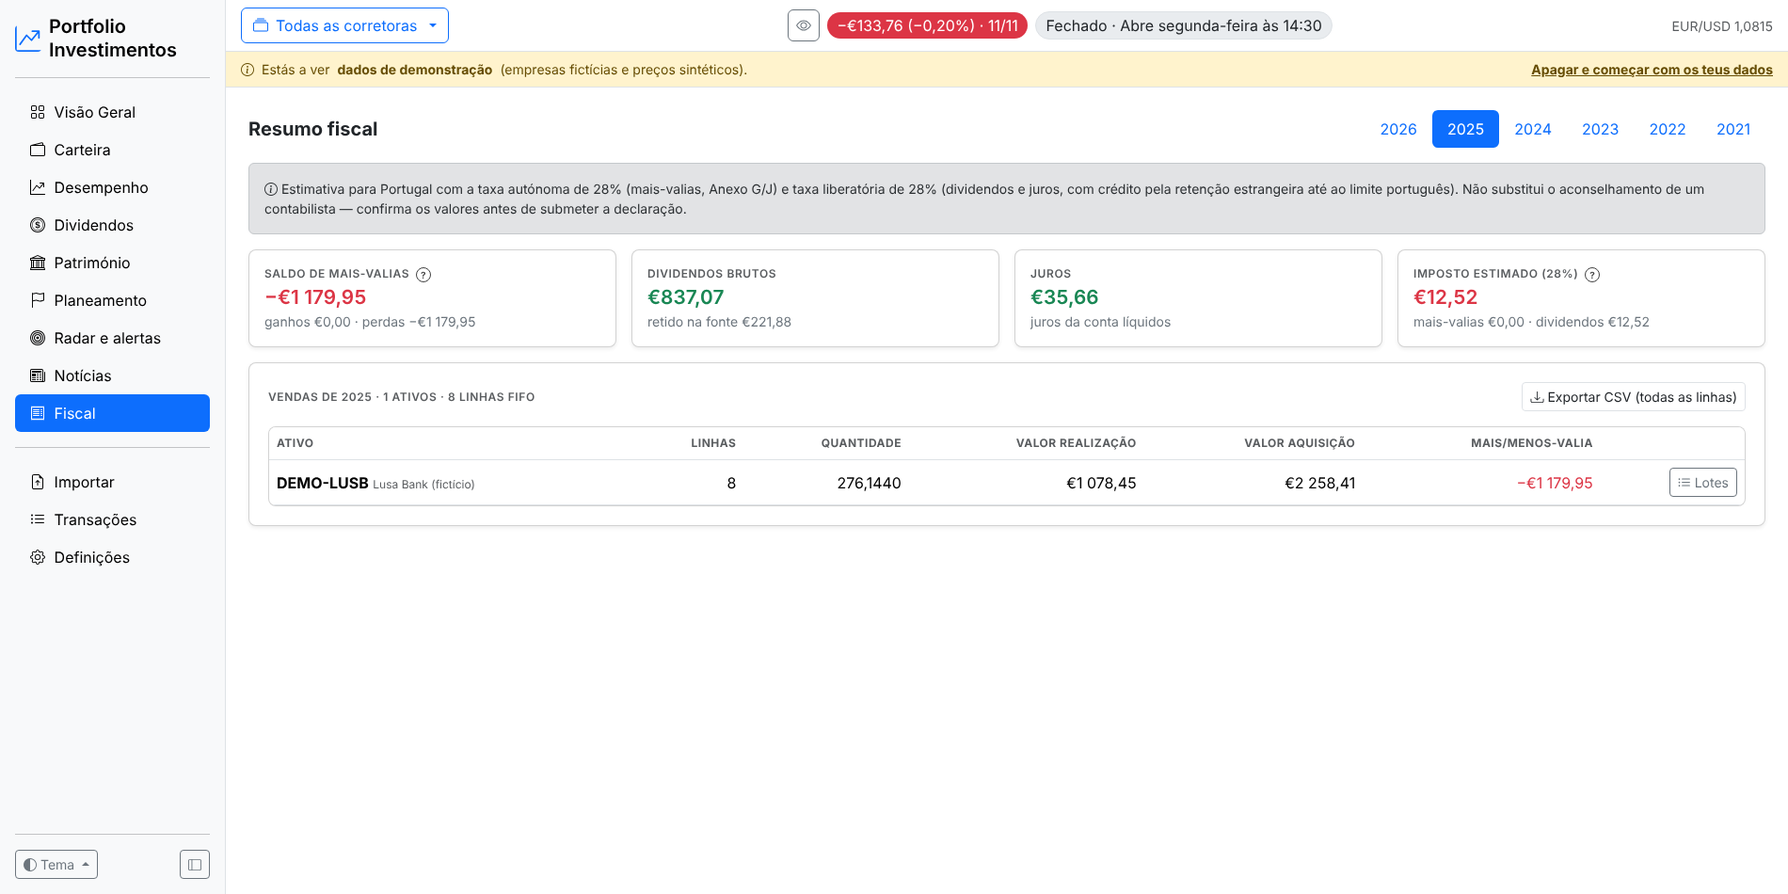
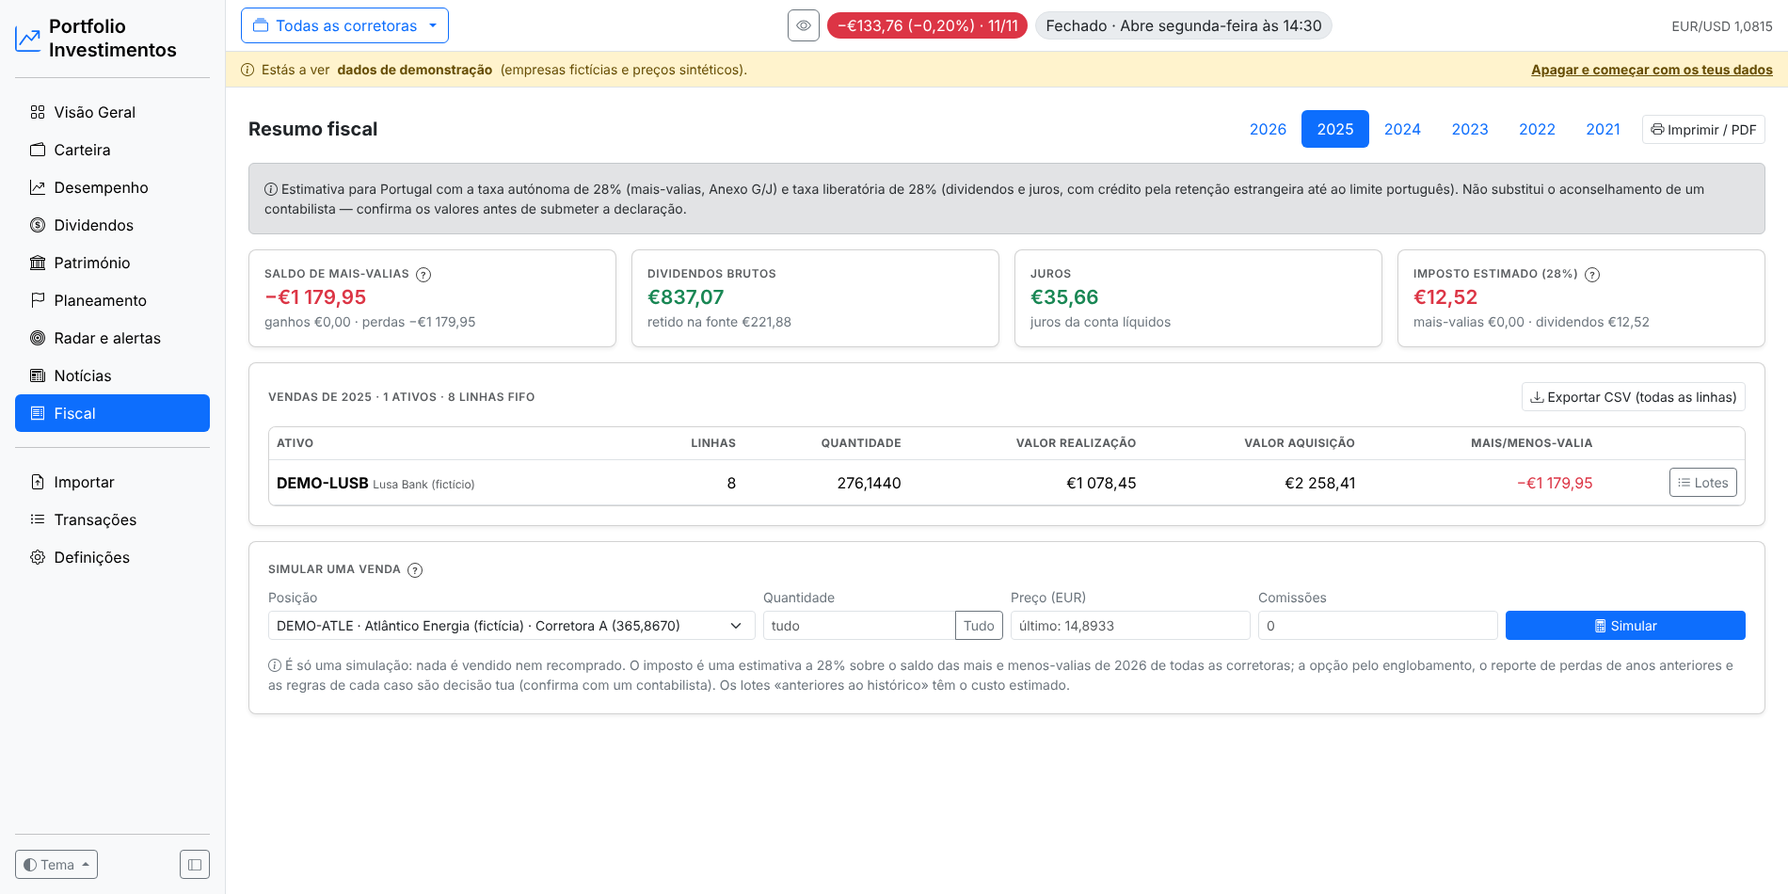
Capturas de ecrã e README atualizados
Capturas novas de todas as páginas (claro e escuro) e quatro novas nos dois
temas: Dados de mercado (Definições), simulador de venda e vender e
recomprar (Fiscal) e relatório anual.

As galerias do modo claro e do modo escuro passam a ter a mesma grelha (17
linhas de 2 imagens e títulos curtos). A linha com uma só imagem e um título
longo alargava uma coluna da tabela do modo claro, por isso essas capturas
saíam com tamanhos diferentes das do escuro (os ficheiros já tinham todos
1900×950).

README: o gráfico de fundo do cartão Carteira (evolução do valor total no
período, sem descidas nas passagens entre corretoras), o botão «Imprimir /
PDF» em Desempenho e os serviços novos na estrutura do projeto.

Claude-Session: https://claude.ai/code/session_01AhMv5rzh4esVFWwNf2sje8

diff --git a/README.md b/README.md
@@ -138,73 +138,79 @@ As capturas usam os dados de demonstração (empresas e preços fictícios).
 
 ### Modo claro
 
-| Visão Geral | Evolução, as minhas posições e próximos eventos |
+| Visão Geral | Evolução e próximos eventos |
 | --- | --- |
-| ![Visão Geral](docs/screenshots/01-visao-geral.png) | ![Evolução](docs/screenshots/02-visao-geral-evolucao.png) |
+| ![Visão Geral](docs/screenshots/01-visao-geral.png) | ![Evolução e próximos eventos](docs/screenshots/02-visao-geral-evolucao.png) |
 | **Peso vs retorno e alocação** | **Perfil de investidor** |
 | ![Peso vs retorno e alocação](docs/screenshots/03-visao-geral-peso-alocacao.png) | ![Perfil de investidor](docs/screenshots/04-perfil-investidor.png) |
 | **Carteira** | **Alocação** |
 | ![Carteira](docs/screenshots/05-carteira.png) | ![Alocação](docs/screenshots/06-carteira-alocacao.png) |
 | **Desempenho** | **Como foi a jornada** |
-| ![Desempenho](docs/screenshots/07-desempenho.png) | ![Jornada](docs/screenshots/08-desempenho-jornada.png) |
+| ![Desempenho](docs/screenshots/07-desempenho.png) | ![Como foi a jornada](docs/screenshots/08-desempenho-jornada.png) |
 | **Retornos mensais** | **Mérito vs mercado** |
-| ![Retornos mensais](docs/screenshots/09-desempenho-mensal.png) | ![Mérito](docs/screenshots/10-desempenho-merito.png) |
+| ![Retornos mensais](docs/screenshots/09-desempenho-mensal.png) | ![Mérito vs mercado](docs/screenshots/10-desempenho-merito.png) |
 | **Risco e análise avançada** | **Dividendos** |
-| ![Risco](docs/screenshots/11-desempenho-risco.png) | ![Dividendos](docs/screenshots/12-dividendos.png) |
-| **Mapa de rendimento e datas ex-dividendo** | **Fiscal** **Relatório anual** («Imprimir / PDF», também em Desempenho): um ano numa só página, pronta a imprimir ou a guardar em PDF no browser para guardar ou enviar ao contabilista: resumo (valor no início e no fim, depósitos, ganho, TWR e IRR do ano, comparação com o MSCI World e os outros índices em euros, gráfico do valor e dos dividendos por mês), dividendos por ativo e por país com a retenção na fonte, mais-valias FIFO por ativo, juros e imposto estimado, património no início e no fim do ano (se usas a página Património) e as posições a 31/12. |
+| ![Risco e análise avançada](docs/screenshots/11-desempenho-risco.png) | ![Dividendos](docs/screenshots/12-dividendos.png) |
+| **Mapa de dividendos** | **Fiscal** |
 | ![Mapa de dividendos](docs/screenshots/13-dividendos-mapa.png) | ![Fiscal](docs/screenshots/14-fiscal.png) |
 | **Planeamento (FIRE)** | **Evolução e projeção** |
-| ![Planeamento](docs/screenshots/15-planeamento.png) | ![Projeção](docs/screenshots/16-planeamento-projecao.png) |
+| ![Planeamento (FIRE)](docs/screenshots/15-planeamento.png) | ![Evolução e projeção](docs/screenshots/16-planeamento-projecao.png) |
 | **Radar e alertas** | **Importar extrato** |
-| ![Radar](docs/screenshots/17-radar.png) | ![Importar](docs/screenshots/18-importar.png) |
+| ![Radar e alertas](docs/screenshots/17-radar.png) | ![Importar extrato](docs/screenshots/18-importar.png) |
 | **Transações** | **Definições** |
 | ![Transações](docs/screenshots/19-transacoes.png) | ![Definições](docs/screenshots/20-definicoes.png) |
-| **Património** | **Carteira: as crises e os custos** |
-| ![Património](docs/screenshots/21-patrimonio.png) | ![Crises e custos](docs/screenshots/22-carteira-crises-custos.png) |
-| **Património: de onde veio o crescimento** | **Carteira: o valor de cada ação** |
-| ![Crescimento](docs/screenshots/23-patrimonio-crescimento.png) | ![Valor de cada ação](docs/screenshots/24-carteira-valor-acoes.png) |
-| **Carteira: alerta da carteira** | **Carteira: gerir índices** |
+| **Património** | **As crises e os custos** |
+| ![Património](docs/screenshots/21-patrimonio.png) | ![As crises e os custos](docs/screenshots/22-carteira-crises-custos.png) |
+| **De onde veio o crescimento** | **O valor de cada ação** |
+| ![De onde veio o crescimento](docs/screenshots/23-patrimonio-crescimento.png) | ![O valor de cada ação](docs/screenshots/24-carteira-valor-acoes.png) |
+| **Alerta da carteira** | **Gerir índices** |
 | ![Alerta da carteira](docs/screenshots/25-carteira-alerta.png) | ![Gerir índices](docs/screenshots/26-carteira-indices.png) |
 | **Notícias** | **Notícias do Radar** |
 | ![Notícias](docs/screenshots/27-noticias.png) | ![Notícias do Radar](docs/screenshots/28-noticias-radar.png) |
 | **E se tivesse investido no índice?** | **Raio-X dos ETF** |
 | ![E se tivesse investido no índice?](docs/screenshots/29-desempenho-indice.png) | ![Raio-X dos ETF](docs/screenshots/30-carteira-raio-x.png) |
-| **Definições: dados de mercado (preços de 5 em 5 minutos)** | |
-| ![Dados de mercado](docs/screenshots/31-definicoes-dados-mercado.png) | |
+| **Dados de mercado** | **Simulador de venda** |
+| ![Dados de mercado](docs/screenshots/31-definicoes-dados-mercado.png) | ![Simulador de venda](docs/screenshots/32-fiscal-simulador.png) |
+| **Vender e recomprar** | **Relatório anual** |
+| ![Vender e recomprar](docs/screenshots/33-fiscal-vender-recomprar.png) | ![Relatório anual](docs/screenshots/34-relatorio-anual.png) |
 
 ### Modo escuro
 
-| Visão Geral | Evolução, as minhas posições e próximos eventos |
+| Visão Geral | Evolução e próximos eventos |
 | --- | --- |
-| ![Visão Geral (escuro)](docs/screenshots/escuro/01-visao-geral.png) | ![Evolução (escuro)](docs/screenshots/escuro/02-visao-geral-evolucao.png) |
+| ![Visão Geral (escuro)](docs/screenshots/escuro/01-visao-geral.png) | ![Evolução e próximos eventos (escuro)](docs/screenshots/escuro/02-visao-geral-evolucao.png) |
 | **Peso vs retorno e alocação** | **Perfil de investidor** |
 | ![Peso vs retorno e alocação (escuro)](docs/screenshots/escuro/03-visao-geral-peso-alocacao.png) | ![Perfil de investidor (escuro)](docs/screenshots/escuro/04-perfil-investidor.png) |
 | **Carteira** | **Alocação** |
 | ![Carteira (escuro)](docs/screenshots/escuro/05-carteira.png) | ![Alocação (escuro)](docs/screenshots/escuro/06-carteira-alocacao.png) |
 | **Desempenho** | **Como foi a jornada** |
-| ![Desempenho (escuro)](docs/screenshots/escuro/07-desempenho.png) | ![Jornada (escuro)](docs/screenshots/escuro/08-desempenho-jornada.png) |
+| ![Desempenho (escuro)](docs/screenshots/escuro/07-desempenho.png) | ![Como foi a jornada (escuro)](docs/screenshots/escuro/08-desempenho-jornada.png) |
 | **Retornos mensais** | **Mérito vs mercado** |
-| ![Retornos mensais (escuro)](docs/screenshots/escuro/09-desempenho-mensal.png) | ![Mérito (escuro)](docs/screenshots/escuro/10-desempenho-merito.png) |
+| ![Retornos mensais (escuro)](docs/screenshots/escuro/09-desempenho-mensal.png) | ![Mérito vs mercado (escuro)](docs/screenshots/escuro/10-desempenho-merito.png) |
 | **Risco e análise avançada** | **Dividendos** |
-| ![Risco (escuro)](docs/screenshots/escuro/11-desempenho-risco.png) | ![Dividendos (escuro)](docs/screenshots/escuro/12-dividendos.png) |
-| **Mapa de rendimento e datas ex-dividendo** | **Fiscal** |
+| ![Risco e análise avançada (escuro)](docs/screenshots/escuro/11-desempenho-risco.png) | ![Dividendos (escuro)](docs/screenshots/escuro/12-dividendos.png) |
+| **Mapa de dividendos** | **Fiscal** |
 | ![Mapa de dividendos (escuro)](docs/screenshots/escuro/13-dividendos-mapa.png) | ![Fiscal (escuro)](docs/screenshots/escuro/14-fiscal.png) |
 | **Planeamento (FIRE)** | **Evolução e projeção** |
-| ![Planeamento (escuro)](docs/screenshots/escuro/15-planeamento.png) | ![Projeção (escuro)](docs/screenshots/escuro/16-planeamento-projecao.png) |
+| ![Planeamento (FIRE) (escuro)](docs/screenshots/escuro/15-planeamento.png) | ![Evolução e projeção (escuro)](docs/screenshots/escuro/16-planeamento-projecao.png) |
 | **Radar e alertas** | **Importar extrato** |
-| ![Radar (escuro)](docs/screenshots/escuro/17-radar.png) | ![Importar (escuro)](docs/screenshots/escuro/18-importar.png) |
+| ![Radar e alertas (escuro)](docs/screenshots/escuro/17-radar.png) | ![Importar extrato (escuro)](docs/screenshots/escuro/18-importar.png) |
 | **Transações** | **Definições** |
 | ![Transações (escuro)](docs/screenshots/escuro/19-transacoes.png) | ![Definições (escuro)](docs/screenshots/escuro/20-definicoes.png) |
-| **Património** | **Carteira: as crises e os custos** |
-| ![Património (escuro)](docs/screenshots/escuro/21-patrimonio.png) | ![Crises e custos (escuro)](docs/screenshots/escuro/22-carteira-crises-custos.png) |
-| **Património: de onde veio o crescimento** | **Carteira: o valor de cada ação** |
-| ![Crescimento (escuro)](docs/screenshots/escuro/23-patrimonio-crescimento.png) | ![Valor de cada ação (escuro)](docs/screenshots/escuro/24-carteira-valor-acoes.png) |
-| **Carteira: alerta da carteira** | **Carteira: gerir índices** |
+| **Património** | **As crises e os custos** |
+| ![Património (escuro)](docs/screenshots/escuro/21-patrimonio.png) | ![As crises e os custos (escuro)](docs/screenshots/escuro/22-carteira-crises-custos.png) |
+| **De onde veio o crescimento** | **O valor de cada ação** |
+| ![De onde veio o crescimento (escuro)](docs/screenshots/escuro/23-patrimonio-crescimento.png) | ![O valor de cada ação (escuro)](docs/screenshots/escuro/24-carteira-valor-acoes.png) |
+| **Alerta da carteira** | **Gerir índices** |
 | ![Alerta da carteira (escuro)](docs/screenshots/escuro/25-carteira-alerta.png) | ![Gerir índices (escuro)](docs/screenshots/escuro/26-carteira-indices.png) |
 | **Notícias** | **Notícias do Radar** |
 | ![Notícias (escuro)](docs/screenshots/escuro/27-noticias.png) | ![Notícias do Radar (escuro)](docs/screenshots/escuro/28-noticias-radar.png) |
 | **E se tivesse investido no índice?** | **Raio-X dos ETF** |
 | ![E se tivesse investido no índice? (escuro)](docs/screenshots/escuro/29-desempenho-indice.png) | ![Raio-X dos ETF (escuro)](docs/screenshots/escuro/30-carteira-raio-x.png) |
+| **Dados de mercado** | **Simulador de venda** |
+| ![Dados de mercado (escuro)](docs/screenshots/escuro/31-definicoes-dados-mercado.png) | ![Simulador de venda (escuro)](docs/screenshots/escuro/32-fiscal-simulador.png) |
+| **Vender e recomprar** | **Relatório anual** |
+| ![Vender e recomprar (escuro)](docs/screenshots/escuro/33-fiscal-vender-recomprar.png) | ![Relatório anual (escuro)](docs/screenshots/escuro/34-relatorio-anual.png) |
 
 O tema escolhe-se no botão **Tema**, no fundo da barra lateral: Claro, Escuro ou Automático.
 
@@ -212,9 +218,9 @@ O tema escolhe-se no botão **Tema**, no fundo da barra lateral: Claro, Escuro o
 
 | Página | O que mostra |
 | --- | --- |
-| **Visão Geral** | **Cartão Carteira**: valor das posições, património líquido total e disponível, a **variação diária** (último dia de mercado, em % e €), o retorno total e a variação do período escolhido na barra de períodos (por omissão, o **ano corrente**), em % e €; com a opção «de 5 em 5 minutos» (Definições), estes valores e a pílula do topo atualizam-se sozinhos durante o horário das bolsas, com «atualizado às HH:MM»; por baixo, os resultados (não realizado, dividendos, realizado, comissões) e a conta (custo base, depositado, caixa, valor total, juros). A **barra de períodos** (1M a Máx, abre em YTD), entre o cartão e o gráfico, muda os dois. **Gráfico de evolução** (retorno ou valor, a toda a largura) com comparação com o S&P 500, o MSCI World, o FTSE All-World e o STOXX Europe 600 e **as minhas posições** (as 5 com maior ganho ou perda e as restantes somadas; na legenda, por selecionar). **Perfil de investidor**: Investor Score e Portfolio Score (0-100, últimos 3 anos) com seis perfis (Passive Index, Concentrated Picker, Diversified Active, Income Focus, Growth/Tech, Active Trader), o perfil sugerido pela carteira e a fórmula de cada métrica no «?»; um perfil por corretora e outro para todas as corretoras, com um aviso quando o perfil escolhido não é o que a carteira sugere. Principais movers do dia (até 8), com o nome, o preço e um gráfico do último ano, verde acima do teu preço médio de aquisição (tracejado) e vermelho abaixo. Próximos eventos dos próximos 90 dias (resultados, com o intervalo quando ainda é estimado, ex-dividendo e pagamentos). **Peso vs retorno** (mapa e bolhas) e **alocação** por setor, geografia, classe e corretora. |
+| **Visão Geral** | **Cartão Carteira**: valor das posições, património líquido total e disponível, a **variação diária** (último dia de mercado, em % e €), o retorno total e a variação do período escolhido na barra de períodos (por omissão, o **ano corrente**), em % e €; com a opção «de 5 em 5 minutos» (Definições), estes valores e a pílula do topo atualizam-se sozinhos durante o horário das bolsas, com «atualizado às HH:MM»; ao fundo do cartão, um gráfico com a evolução do **valor total da carteira** (posições + caixa) no período escolhido — o dinheiro a caminho entre corretoras conta, por isso uma passagem da XTB para a Trading 212 (ou outra) não faz descer o gráfico; por baixo, os resultados (não realizado, dividendos, realizado, comissões) e a conta (custo base, depositado, caixa, valor total, juros). A **barra de períodos** (1M a Máx, abre em YTD), entre o cartão e o gráfico, muda os dois. **Gráfico de evolução** (retorno ou valor, a toda a largura) com comparação com o S&P 500, o MSCI World, o FTSE All-World e o STOXX Europe 600 e **as minhas posições** (as 5 com maior ganho ou perda e as restantes somadas; na legenda, por selecionar). **Perfil de investidor**: Investor Score e Portfolio Score (0-100, últimos 3 anos) com seis perfis (Passive Index, Concentrated Picker, Diversified Active, Income Focus, Growth/Tech, Active Trader), o perfil sugerido pela carteira e a fórmula de cada métrica no «?»; um perfil por corretora e outro para todas as corretoras, com um aviso quando o perfil escolhido não é o que a carteira sugere. Principais movers do dia (até 8), com o nome, o preço e um gráfico do último ano, verde acima do teu preço médio de aquisição (tracejado) e vermelho abaixo. Próximos eventos dos próximos 90 dias (resultados, com o intervalo quando ainda é estimado, ex-dividendo e pagamentos). **Peso vs retorno** (mapa e bolhas) e **alocação** por setor, geografia, classe e corretora. |
 | **Carteira** | Posições abertas/fechadas, carteira vs mercado no dia (até 5 índices à escolha: MSCI World, FTSE All-World, S&P 500, Dow Jones, Nasdaq 100, Russell 2000, Bitcoin, FTSE 100, CAC 40, DAX, STOXX Europe 600, Euro STOXX 50, AEX e Euronext 100) com alertas da variação do dia de toda a carteira ou de uma corretora (1, 2, 3 ou 5%, a subir, a descer ou os dois; no máximo um aviso por dia e por sentido, sem contar depósitos e levantamentos), filtros por setor, pesquisa, tabela ordenável (preço, 1D, preço médio, investido, valor, não realizado, dividendos, efeito cambial, comissões, ROI, peso) e alocação por ativo, setor e moeda. **Raio-X dos ETF**: a exposição real por empresa, país e setor, somando as posições dentro dos ETF (pela composição publicada pelo emitente, carregada em CSV/XLSX ou descarregada do site dele) às ações diretas, e a sobreposição entre ETF. «As crises»: quanto cairia a carteira de hoje se 2008, 2011, 2020 ou 2022 se repetissem (beta de cada posição face ao S&P 500) e quanto tempo levava a recuperar. «Os custos»: comissões, custo dos ETF (TER, indicado por ti) e retenções na fonte acima dos 15% da convenção, por ano e daqui a 20 anos. «O valor de cada ação»: por ordem de popularidade, DCF, Número de Graham, fórmula de crescimento de Graham (com o rendimento das obrigações AAA configurável) e modelo de Gordon, e em «Mais métodos» Owner Earnings (Buffett), Earnings Power Value (Greenwald), Bazin e o PEG de Peter Lynch, sempre em intervalo e com a fórmula e os números no «?», comparados com o preço, e o crescimento que o preço de hoje já assume; dados fundamentais do Yahoo (uma vez por semana, na atualização de cotações; se o pedido principal falhar, a partir das demonstrações financeiras, também da cotação principal pelo ISIN, convertidos para a moeda da cotação), que podes corrigir. |
-| **Desempenho** | Retorno total e IRR, TWR e CAGR comparados com os mesmos índices da Visão Geral (S&P 500, MSCI World, FTSE All-World e STOXX Europe 600; vários ao mesmo tempo, nos gráficos e ao lado dos valores; a escolha mantém-se ao mudar de período); **«E se tivesse investido no índice?»**: o mesmo dinheiro, nos mesmos dias, em cada índice (valor hoje, ganho, IRR e diferença para a carteira, com gráfico); melhor/pior ano e mês, sequência atual; TWR anual e acumulado; drawdown; mapa de retornos mensais; mérito vs mercado (captura em alta/baixa, beta, % de meses acima do mercado); risco (Sharpe, Sortino, Calmar, volatilidade, max drawdown); alfa de Jensen e distribuição mensal ordenada. |
+| **Desempenho** | O botão **«Imprimir / PDF»** abre o relatório anual (ver Fiscal). Retorno total e IRR, TWR e CAGR comparados com os mesmos índices da Visão Geral (S&P 500, MSCI World, FTSE All-World e STOXX Europe 600; vários ao mesmo tempo, nos gráficos e ao lado dos valores; a escolha mantém-se ao mudar de período); **«E se tivesse investido no índice?»**: o mesmo dinheiro, nos mesmos dias, em cada índice (valor hoje, ganho, IRR e diferença para a carteira, com gráfico); melhor/pior ano e mês, sequência atual; TWR anual e acumulado; drawdown; mapa de retornos mensais; mérito vs mercado (captura em alta/baixa, beta, % de meses acima do mercado); risco (Sharpe, Sortino, Calmar, volatilidade, max drawdown); alfa de Jensen e distribuição mensal ordenada. |
 | **Dividendos** | Recebido líquido/bruto e retenção na fonte, maior pagador, meses com dividendos, rendimento anualizado, crescimento anual. **Projeção** do ano e dos próximos 12 meses com os dividendos recebidos e, para posições recentes, os dividendos por ação do Yahoo, com a origem de cada valor. Dividendos por ano, decomposição do crescimento, **mapa mensal com a linha do próximo ano**, **datas ex-dividendo** (recebido, a receber, sem direito por ter comprado depois, previsto), yield on cost e histórico. |
 | **Património** | A carteira das corretoras mais os outros ativos e dívidas que indicas à mão (contas à ordem, depósitos a prazo, certificados, PPR, imóveis, outros, créditos), separados por camadas de liquidez (imediata, curto prazo, ilíquido) e nunca somados num único total: património líquido total e património líquido disponível (só imediata e curto prazo); meses de reserva (liquidez imediata ÷ despesas mensais do Planeamento); imóveis pelo valor líquido de dívida (crédito ligado ao imóvel) com desconto opcional de 5% ou 10% para os custos de venda; casa de habitação própria fora do FIRE; alocação por camada e categoria com e sem a casa própria; evolução mensal por camada; «De onde veio o crescimento», ano a ano (poupança investida, valorização do mercado, outros ativos financeiros, imóveis e amortização da dívida), com o ganho sem a poupança e a % de cada parte sobre a sua base (o mercado pelo TWR das corretoras); «Atualizar valores», um formulário mensal com todos os ativos e dívidas, com lembrete (também na Visão Geral) quando um valor passa um mês sem atualizar; aviso nos valores com mais de 90 dias; cada ativo pode somar-se à carteira no Planeamento (FIRE). Na Visão Geral, o património líquido total e o disponível aparecem por baixo do valor da carteira. |
 | **Planeamento** | Independência financeira (FIRE): o número FIRE «para sempre» (regra dos 4%), «para sempre, com a pensão» e «até aos N anos, com a pensão», já depois do IRS dos levantamentos; a parte já feita; a idade e o ano a que corresponde cada capital necessário (com uma nota quando «investir até aos» adia a data FIRE: o capital pedido desce só porque faltam menos anos até à pensão); a data em três cenários (3%, 5% e 7% reais ao ano), a investir até à data FIRE (ou até uma idade) e a levantar daí em diante; o gráfico da vida inteira com os números FIRE a tracejado e quando cada cenário chega a cada um (tabela e pontos no gráfico); nota quando a pensão cobre as despesas; os outros ativos marcados em Património somam-se à carteira; até quando dura o dinheiro em cada cenário; acompanhamento mês a mês. |
@@ -323,6 +329,7 @@ portfolio_investimentos/
 │                  #   notas do perfil de investidor, crises, custos e valor de cada ação
 ├── services/      # base de dados, importação, mercado (yfinance ou acesso direto ao Yahoo), património,
 │                  #   cartões da Visão Geral, alertas da carteira, ordem dos cartões, cópias de segurança,
+│                  #   simulador de venda, relatório anual, Raio-X dos ETF, notícias,
 │                  #   demonstração
 ├── templates/     # páginas Jinja + Bootstrap 5.3
 ├── static/        # CSS/JS da app e bibliotecas (Bootstrap, Bootstrap Icons, Chart.js), sem CDN

diff --git a/CHANGELOG.md b/CHANGELOG.md
@@ -4,6 +4,8 @@ O que mudou em cada commit, do mais recente para o mais antigo (gerado a partir 
 
 ## 2026-11-14
 
+- **Capturas de ecrã e README atualizados**  
+  Capturas novas de todas as páginas (claro e escuro) e quatro novas nos dois temas: Dados de mercado (Definições), simulador de venda, vender e recomprar (Fiscal) e relatório anual. As galerias do modo claro e do modo escuro passam a ter a mesma grelha (17 linhas de 2 imagens, títulos curtos): a linha com uma só imagem e um título longo alargava uma coluna e as capturas do modo claro saíam com tamanhos diferentes das do escuro. No README: o gráfico de fundo do cartão Carteira (valor total do período), o botão «Imprimir / PDF» em Desempenho e os novos serviços na estrutura.
 - **Relatório anual para imprimir ou guardar em PDF (#62)**  
   Página nova /relatorio?ano=AAAA (da corretora selecionada ou de todas), aberta com «Imprimir / PDF» em Fiscal e em Desempenho, e com o seu próprio botão «Imprimir / PDF» (o PDF é o do browser, sem dependências novas). Secções: resumo (valor no início e no fim, depósitos líquidos, ganho, TWR e IRR do ano, MSCI World e os outros índices em euros, gráfico do valor total e do dinheiro investido e dos dividendos por mês), dividendos por ativo e por país com a retenção na fonte, mais-valias FIFO por ativo com o saldo, juros e imposto estimado, património no início e no fim do ano (se usado) e as posições a 31/12 (calculadas só com as transações até essa data). Na impressão: sem a barra lateral, o topo nem as faixas, em A4, cada secção inteira numa página se couber, tabelas sem cortes e os gráficos em imagem (canvas.toDataURL). Por omissão abre o último ano completo.
 - **Fiscal: simulador de venda (#61)**  
